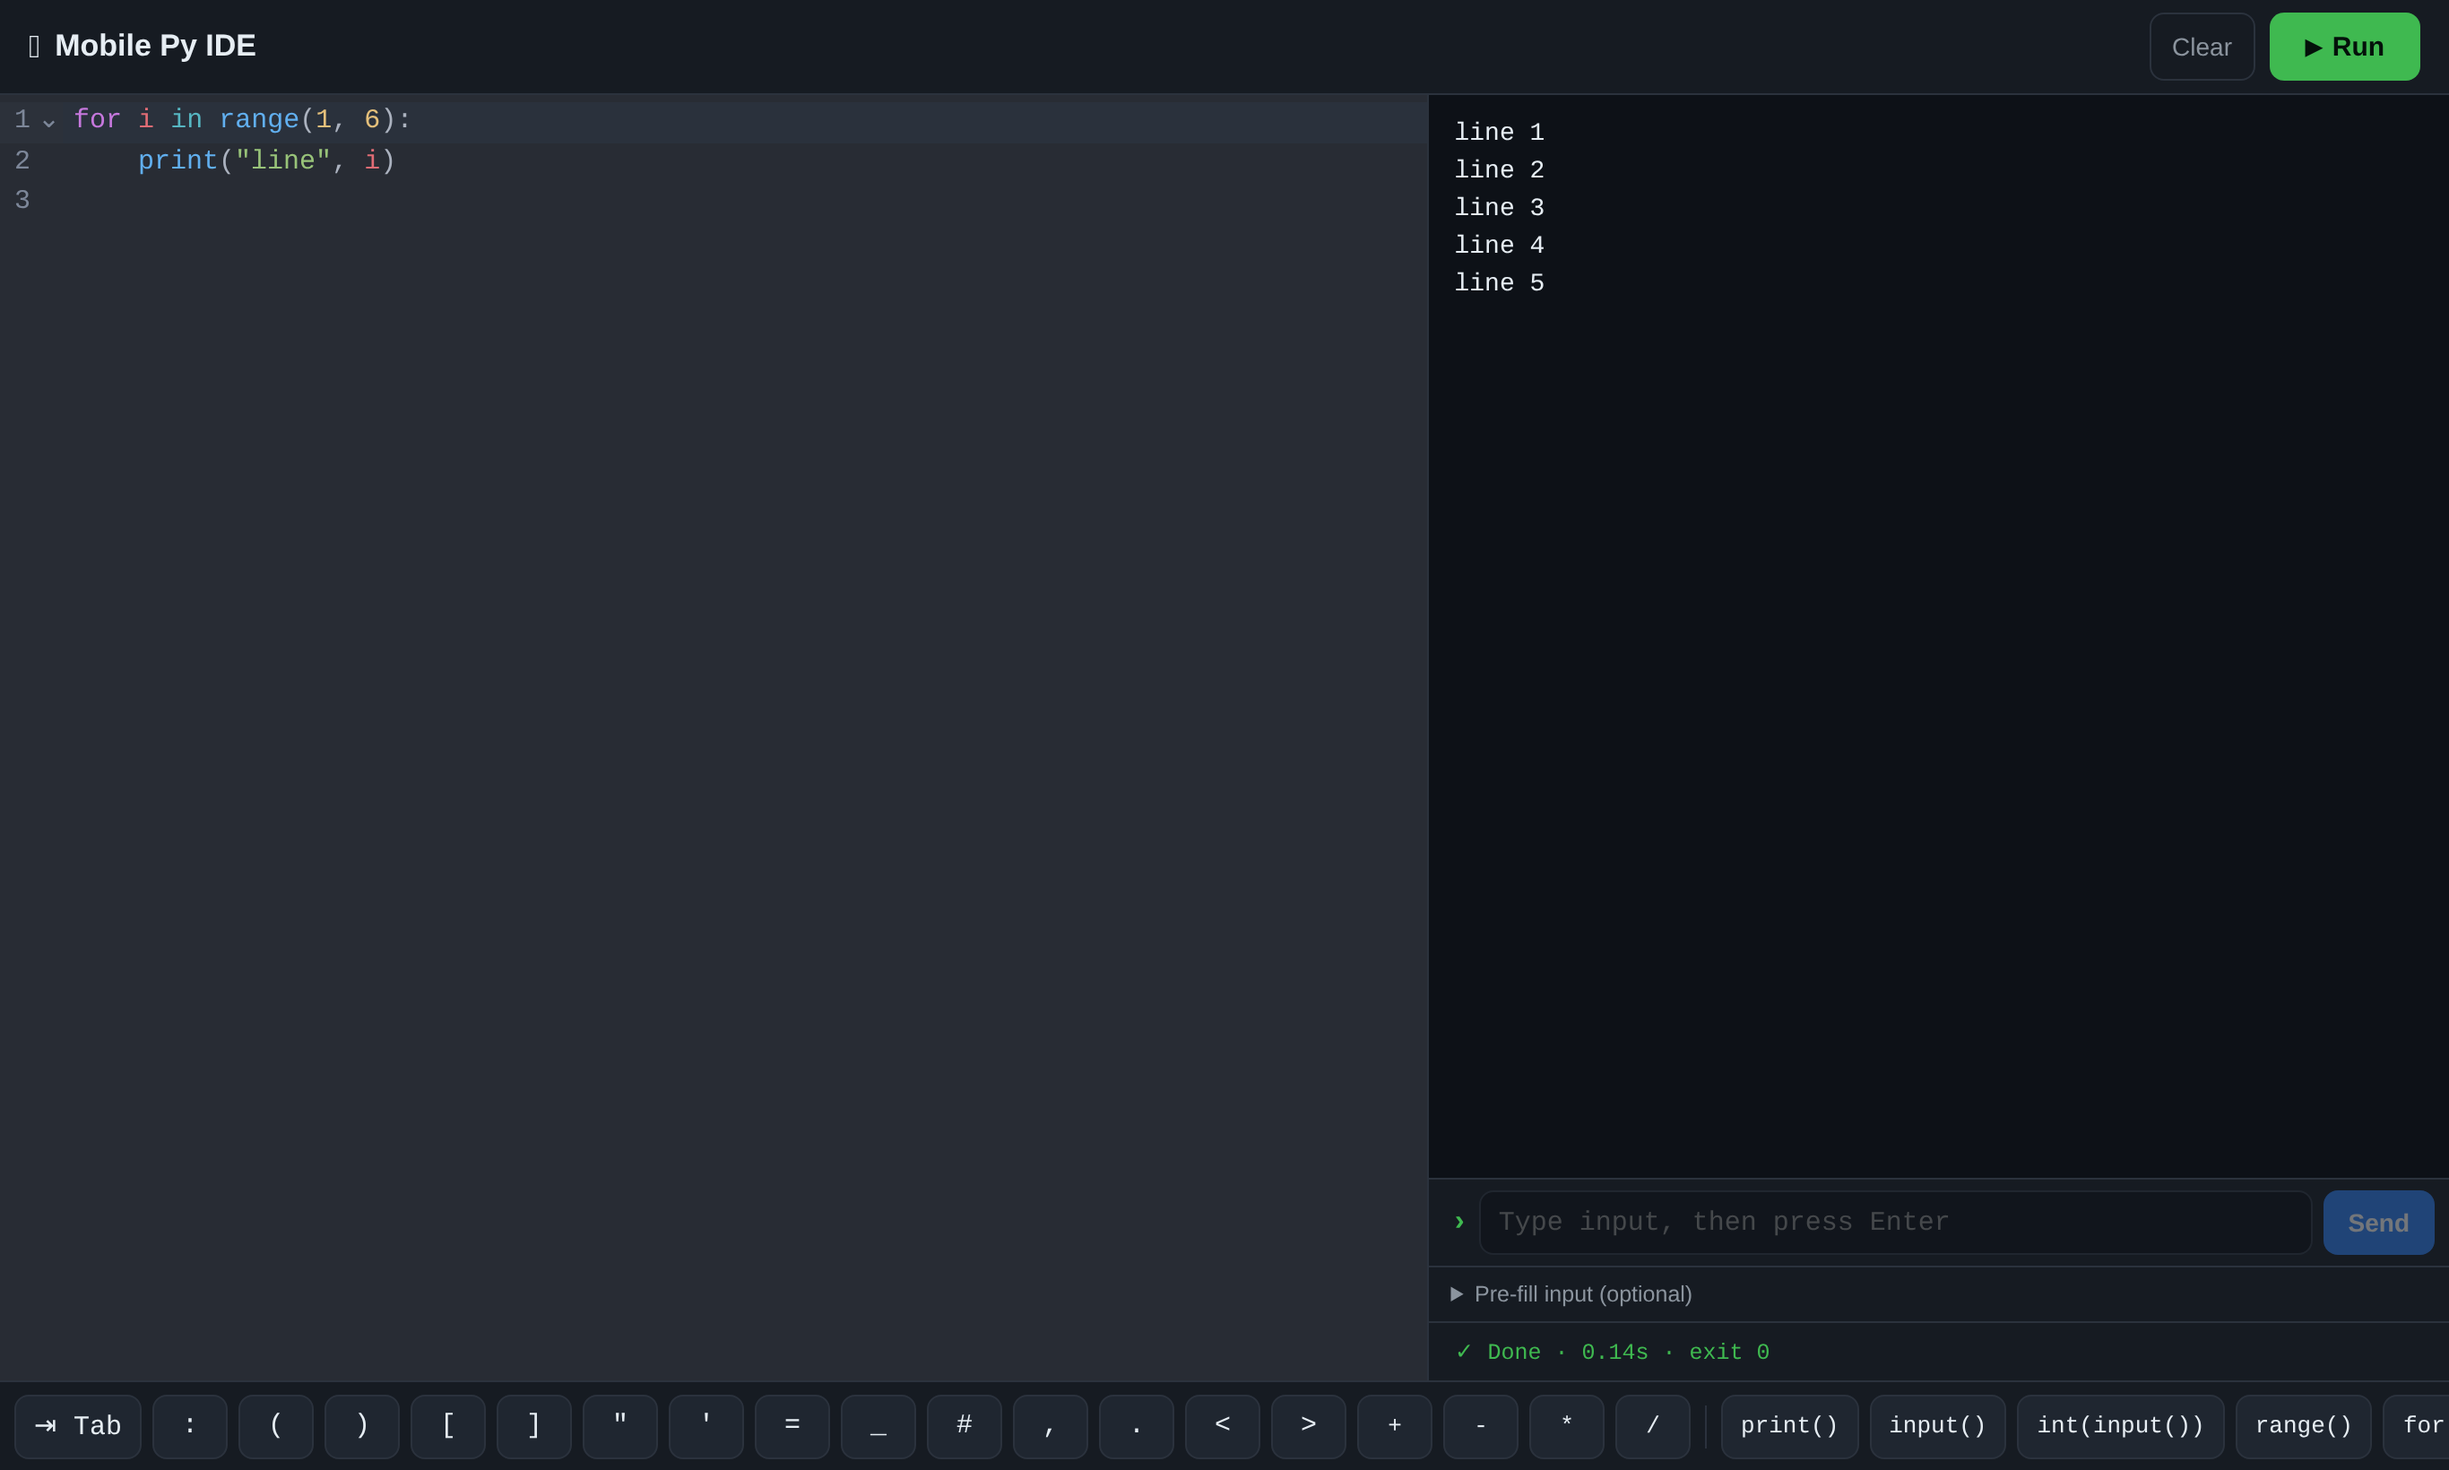
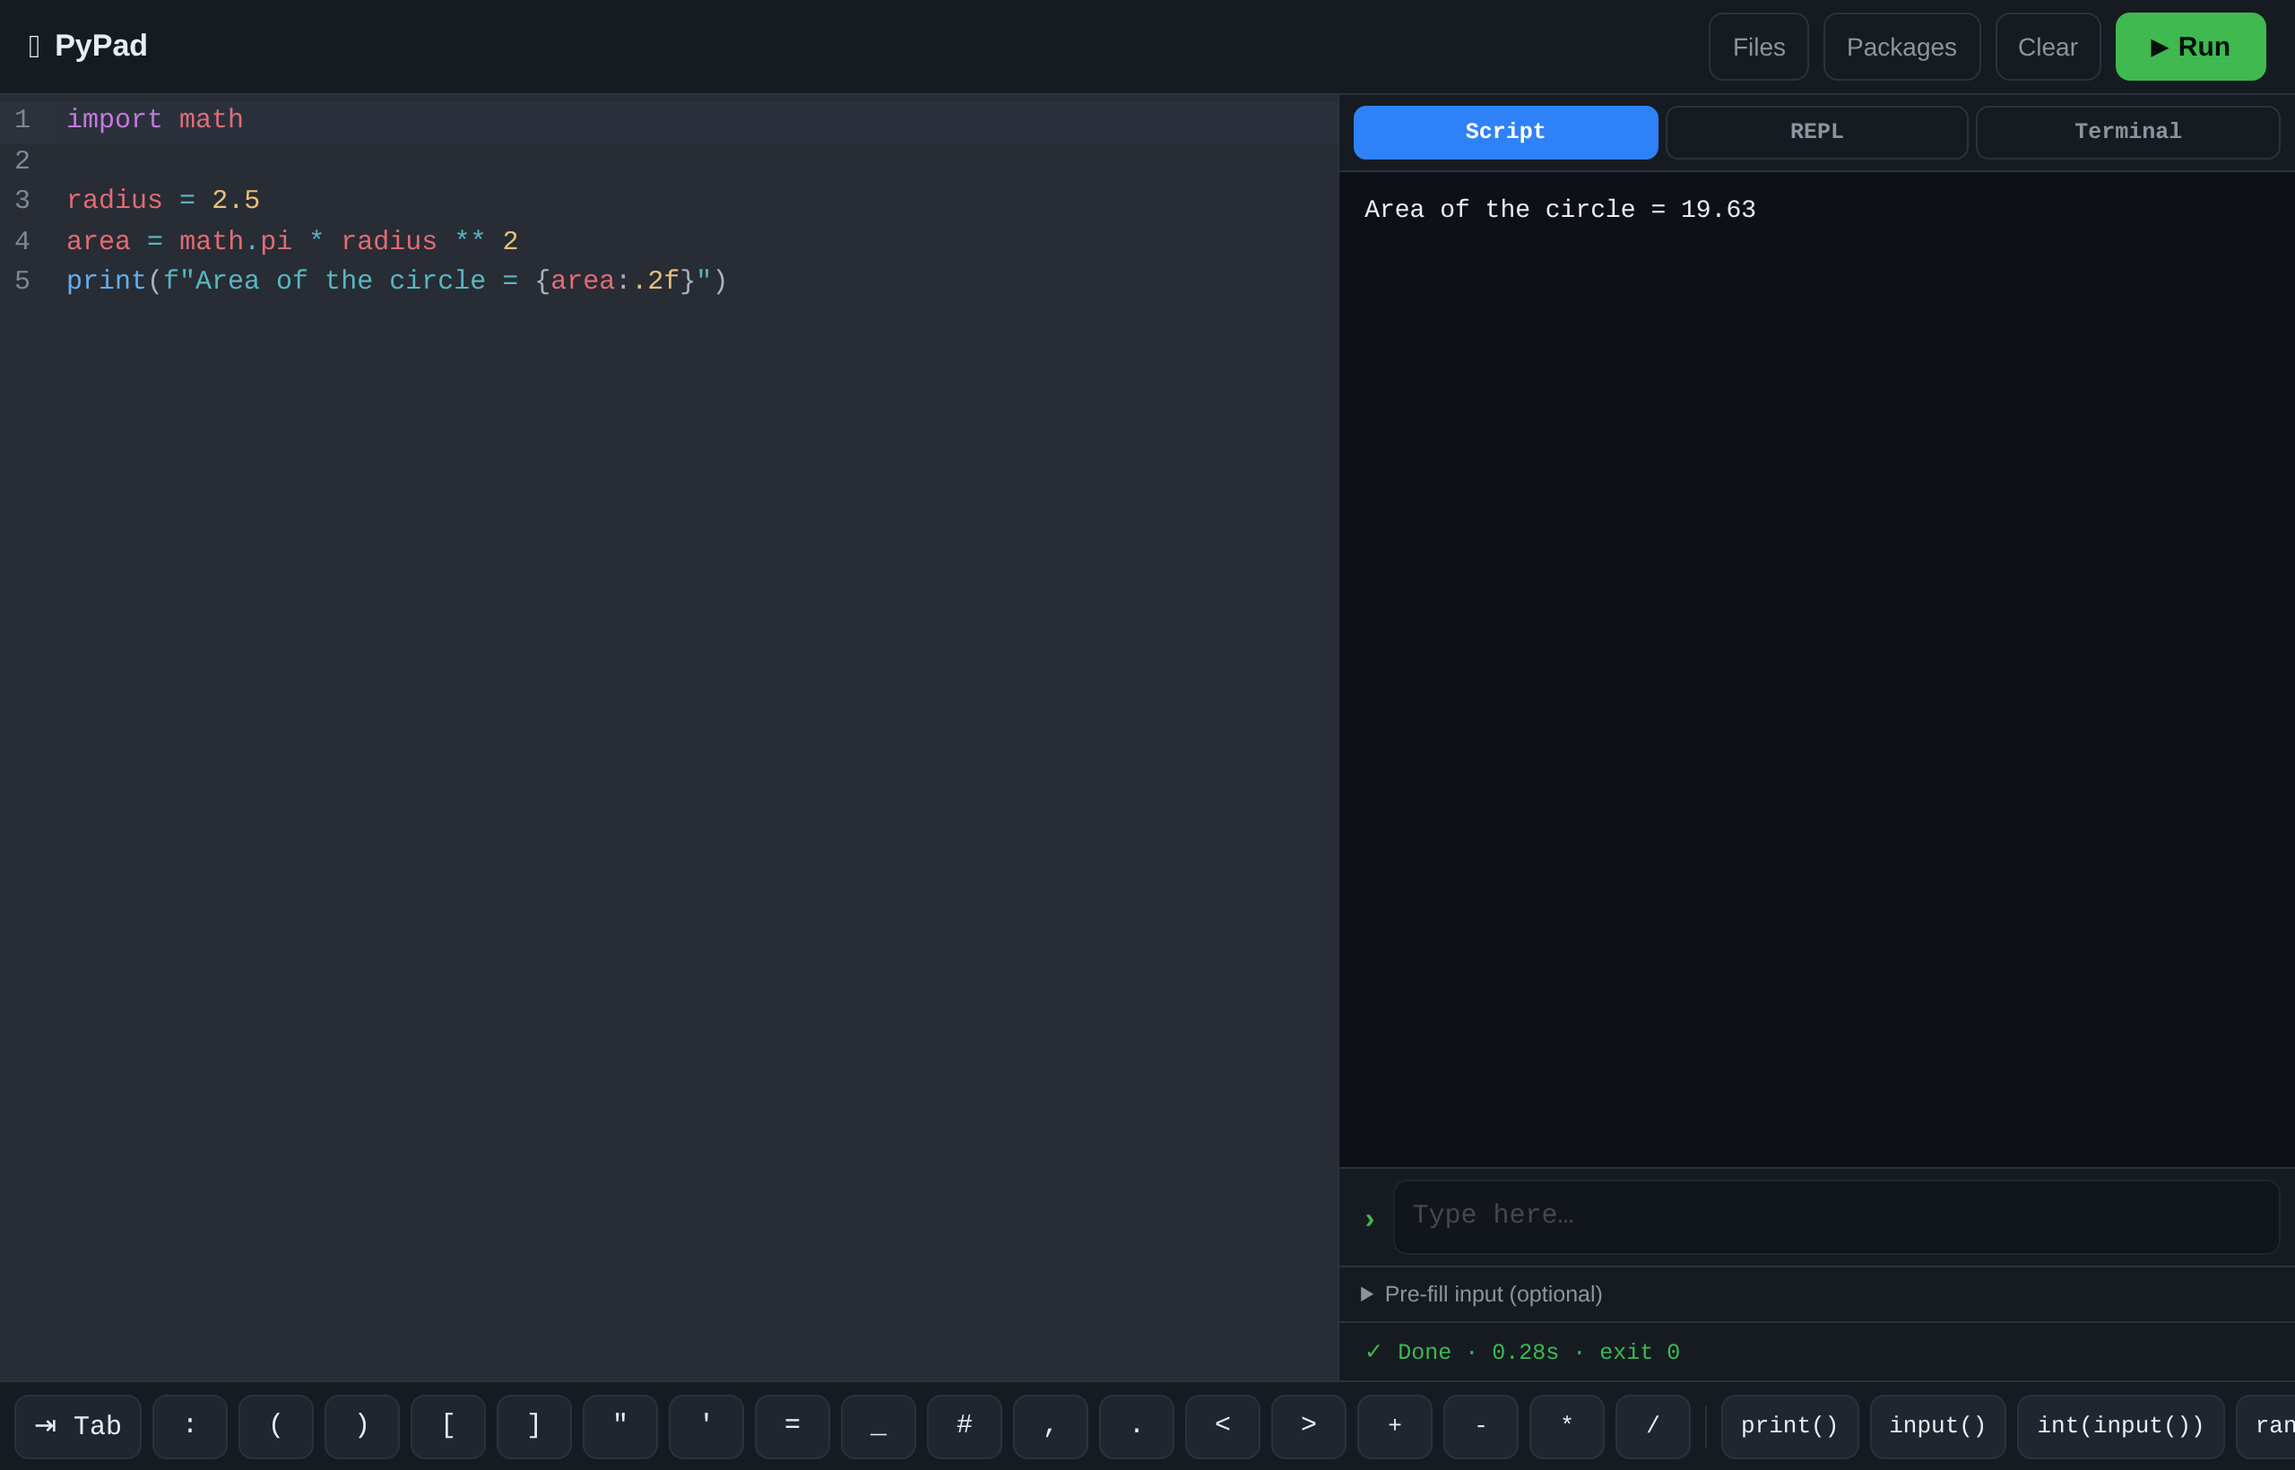
Update the guide for the desktop terminal: a new section with the keyboard shortcuts and paste, fresh desktop screenshots, and new troubleshooting and API entries

diff --git a/docs/index.html b/docs/index.html
@@ -62,6 +62,7 @@
     <a href="#start">Getting started</a>
     <a href="#screen">The screen</a>
     <a href="#modes">Modes</a>
+    <a href="#terminal">Desktop terminal</a>
     <a href="#input">Input &amp; output</a>
     <a href="#libraries">Libraries</a>
     <a href="#packages">Installing packages</a>
@@ -72,6 +73,10 @@
     <a href="#host">Self-hosting</a>
   </nav>
 </header>
+
+<div class="card ok">
+  <strong>New — the desktop terminal.</strong> On a laptop or desktop, REPL and Terminal now open as a <em>real</em> terminal: type straight at the <code>$</code> or <code>&gt;&gt;&gt;</code> prompt, with <kbd>Ctrl</kbd>+<kbd>C</kbd> to interrupt, arrow-key history, <kbd>Tab</kbd> completion and working paste. There is no Send button. Phones keep the lighter line-by-line console. Details in <a href="#terminal">The desktop terminal</a>.
+</div>
 
 <h2 id="start">Getting started</h2>
 <p>Open the IDE in your browser — on a phone it looks like this:</p>
@@ -88,13 +93,14 @@
   <tr><td><strong>▶ Run</strong></td><td>Runs the code. While a program is running it turns into <strong>■ Stop</strong>.</td></tr>
   <tr><td><strong>Clear</strong></td><td>Empties the console.</td></tr>
   <tr><td><strong>Symbol bar</strong></td><td>The scrollable row at the bottom with <code>:</code> <code>(</code> <code>"</code> <code>_</code> and shortcuts like <code>print()</code>, <code>input()</code>, <code>for</code>, <code>if</code>. Tap to insert at the cursor — no keyboard switching needed.</td></tr>
-  <tr><td><strong>› input line</strong></td><td>Where you type answers to a running program (see below).</td></tr>
+  <tr><td><strong>› input line</strong></td><td>Where you type answers to a running program (see below). On a desktop in REPL or Terminal mode this is replaced by the real terminal.</td></tr>
   <tr><td><strong>Pre-fill input</strong></td><td>Optional: lines sent to the program the moment it starts.</td></tr>
 </table>
+<p>On a desktop the <strong>Send</strong> button and the <strong>⇅</strong> move button are hidden — <kbd>Enter</kbd> sends the line, so there is nothing to reach for.</p>
 <p>On a desktop it becomes a two-pane layout — editor on the left, console on the right:</p>
 <figure>
   <img class="shot" src="screenshot-desktop.png" alt="The IDE on a desktop browser, editor left and console right" />
-  <figcaption>The same page on a desktop.</figcaption>
+  <figcaption>The same page on a desktop — editor on the left, console on the right.</figcaption>
 </figure>
 <p>Press <kbd>Ctrl</kbd>+<kbd>Enter</kbd> (or <kbd>Cmd</kbd>+<kbd>Enter</kbd>) to run without reaching for the button. Your code is saved in the browser automatically, so it is still there when you come back.</p>
 
@@ -106,9 +112,32 @@
   <tr><td><strong>REPL</strong></td><td>An interactive Python prompt. Press Run to start it, then type one line at a time below and see each result immediately — just like Python's <code>&gt;&gt;&gt;</code> prompt. Variables you set stay available for the next line.</td></tr>
   <tr><td><strong>Terminal</strong></td><td>A shell on the server. Type a command, press Enter, read its output. Only shown if it has been enabled.</td></tr>
 </table>
-<p><strong>On a laptop or desktop</strong>, REPL and Terminal open as a <em>real</em> terminal: you type straight at the <code>$</code> or <code>&gt;&gt;&gt;</code> prompt, with arrow-key history, tab completion and Ctrl+C to interrupt — and no Send button. On a phone they stay line-by-line, with the input box you can move above or below the output.</p>
+<p><strong>On a laptop or desktop</strong>, REPL and Terminal open as a <em>real</em> terminal: you type straight at the <code>$</code> or <code>&gt;&gt;&gt;</code> prompt, with arrow-key history, tab completion and Ctrl+C to interrupt — and no Send button. On a phone they stay line-by-line, with the input box you can move above or below the output. Full details in <a href="#terminal">The desktop terminal</a>.</p>
 <div class="card warn">
   <strong>About the terminal.</strong> Terminal mode is a real shell on the server, so it is <em>off by default</em>. It is only safe while the IDE stays private (for example behind Cloudflare Access). Turn it on from GitHub — Actions &rarr; <em>Run server setup</em> &rarr; set <code>allow_terminal</code> to <code>true</code> — or add <code>ALLOW_TERMINAL=true</code> to <code>/opt/mobile-py-ide/.env</code> and restart the service.
+</div>
+
+<h2 id="terminal">The desktop terminal</h2>
+<p>On a screen at least 860&nbsp;px wide, <strong>REPL</strong> and <strong>Terminal</strong> stop being a text box and become a real terminal. Press <strong>▶ Run</strong> and a genuine prompt appears — <code>$</code> for the shell, <code>&gt;&gt;&gt;</code> for Python — and you type straight at it.</p>
+<figure>
+  <img class="shot" src="screenshot-terminal.png" alt="The Python REPL running as a real terminal on a desktop browser" />
+  <figcaption>The REPL on a desktop: a real <code>&gt;&gt;&gt;</code> prompt, not an input box.</figcaption>
+</figure>
+<table>
+  <tr><th>Key</th><th>What it does</th></tr>
+  <tr><td><kbd>Enter</kbd></td><td>Runs the line.</td></tr>
+  <tr><td><kbd>Ctrl</kbd>+<kbd>C</kbd></td><td>Interrupts whatever is running and gives you the prompt back.</td></tr>
+  <tr><td><kbd>↑</kbd> / <kbd>↓</kbd></td><td>Walks back and forward through your command history.</td></tr>
+  <tr><td><kbd>Tab</kbd></td><td>Completes a file name or command.</td></tr>
+  <tr><td><kbd>Ctrl</kbd>+<kbd>V</kbd></td><td>Pastes — <kbd>Cmd</kbd>+<kbd>V</kbd> on a Mac, or the right-click menu. Several lines at once are fine.</td></tr>
+</table>
+<p>There is no Send button here: <kbd>Enter</kbd> is the only key you need. The input box and the <strong>⇅</strong> button stay on phones, where they are the right tool.</p>
+<p>On a narrow screen the real terminal is not used at all — you get the lighter line-by-line console, which is kinder to a phone's memory and battery and starts instantly. If the terminal cannot load for any reason, a desktop quietly falls back to that same console.</p>
+<div class="card ok">
+  <strong>How it works.</strong> The run happens under a real pseudoterminal, so the program behaves exactly as it would in a terminal window — prompts, colours, line editing and all — and the terminal itself is drawn by <a href="https://xtermjs.org/">xterm.js</a>. Nothing native is installed on the server for this: it is a small Python relay plus a hand-written WebSocket, so the project keeps its no-dependency promise.
+</div>
+<div class="card warn">
+  <strong>Switching modes ends the old session.</strong> If you move from Terminal to REPL (or the other way round), the previous session is closed — press <strong>▶ Run</strong> to start the new one. This stops a shell from quietly receiving the lines you meant for Python.
 </div>
 
 <h2 id="input">Input &amp; output</h2>
@@ -186,6 +215,9 @@ print(open("notes.txt").read())</code></pre>
   <tr><td><em>Server is busy…</em></td><td>Two programs were already running. Wait a moment and press Run again.</td></tr>
   <tr><td><em>Terminal mode is turned off</em></td><td>Terminal mode is opt-in for safety. See the note in <a href="#modes">Modes</a>.</td></tr>
   <tr><td><em>not on the allowed list</em></td><td>That package is not in the reviewed set. Use one of the chips, or add it to <code>EXTRA_PACKAGES</code> on the server.</td></tr>
+  <tr><td>Paste does nothing in the terminal</td><td>Click once inside the terminal, then paste with <kbd>Ctrl</kbd>+<kbd>V</kbd>. The terminal now takes focus by itself, so this should not happen — but a click always fixes it.</td></tr>
+  <tr><td>A <code>$</code> prompt appears in REPL mode</td><td>That is the shell, so check which mode button is highlighted. Changing mode also ends the old session, so press <strong>▶ Run</strong> again to get a fresh <code>&gt;&gt;&gt;</code>.</td></tr>
+  <tr><td>The old session keeps answering after you switch mode</td><td>Changing mode ends the previous session. Press <strong>▶ Run</strong> to start the new one.</td></tr>
 </table>
 
 <h2 id="api">API</h2>
@@ -193,8 +225,9 @@ print(open("notes.txt").read())</code></pre>
   <tr><th>Method &amp; path</th><th>Purpose</th></tr>
   <tr><td><code>GET /api/health</code></td><td>Service status and limits.</td></tr>
   <tr><td><code>POST /api/run</code></td><td>One-shot: send <code>{code, stdin}</code>, get the full result as JSON.</td></tr>
-  <tr><td><code>POST /api/runs</code></td><td>Start a run; body <code>{code, stdin?, mode}</code> where mode is <code>script</code>, <code>repl</code> or <code>terminal</code>. Returns <code>{runId}</code>.</td></tr>
+  <tr><td><code>POST /api/runs</code></td><td>Start a run; body <code>{code, stdin?, mode, pty?, cols?, rows?}</code> where mode is <code>script</code>, <code>repl</code> or <code>terminal</code>. Add <code>pty: true</code> for a real terminal. Returns <code>{runId, mode, pty}</code>.</td></tr>
   <tr><td><code>GET /api/runs/:id/events</code></td><td>Server-Sent Events stream of output and the final exit.</td></tr>
+  <tr><td><code>WS /api/runs/:id/ws</code></td><td>Attach to a run's terminal: raw bytes out, JSON in — <code>{type:&quot;input&quot;,text}</code> or <code>{type:&quot;kill&quot;}</code>. Used with <code>pty: true</code>.</td></tr>
   <tr><td><code>POST /api/runs/:id/input</code></td><td>Send <code>{data}</code> to the running program.</td></tr>
   <tr><td><code>POST /api/runs/:id/kill</code></td><td>Stop the run.</td></tr>
   <tr><td><code>GET /api/packages</code></td><td>The allowed package list.</td></tr>
